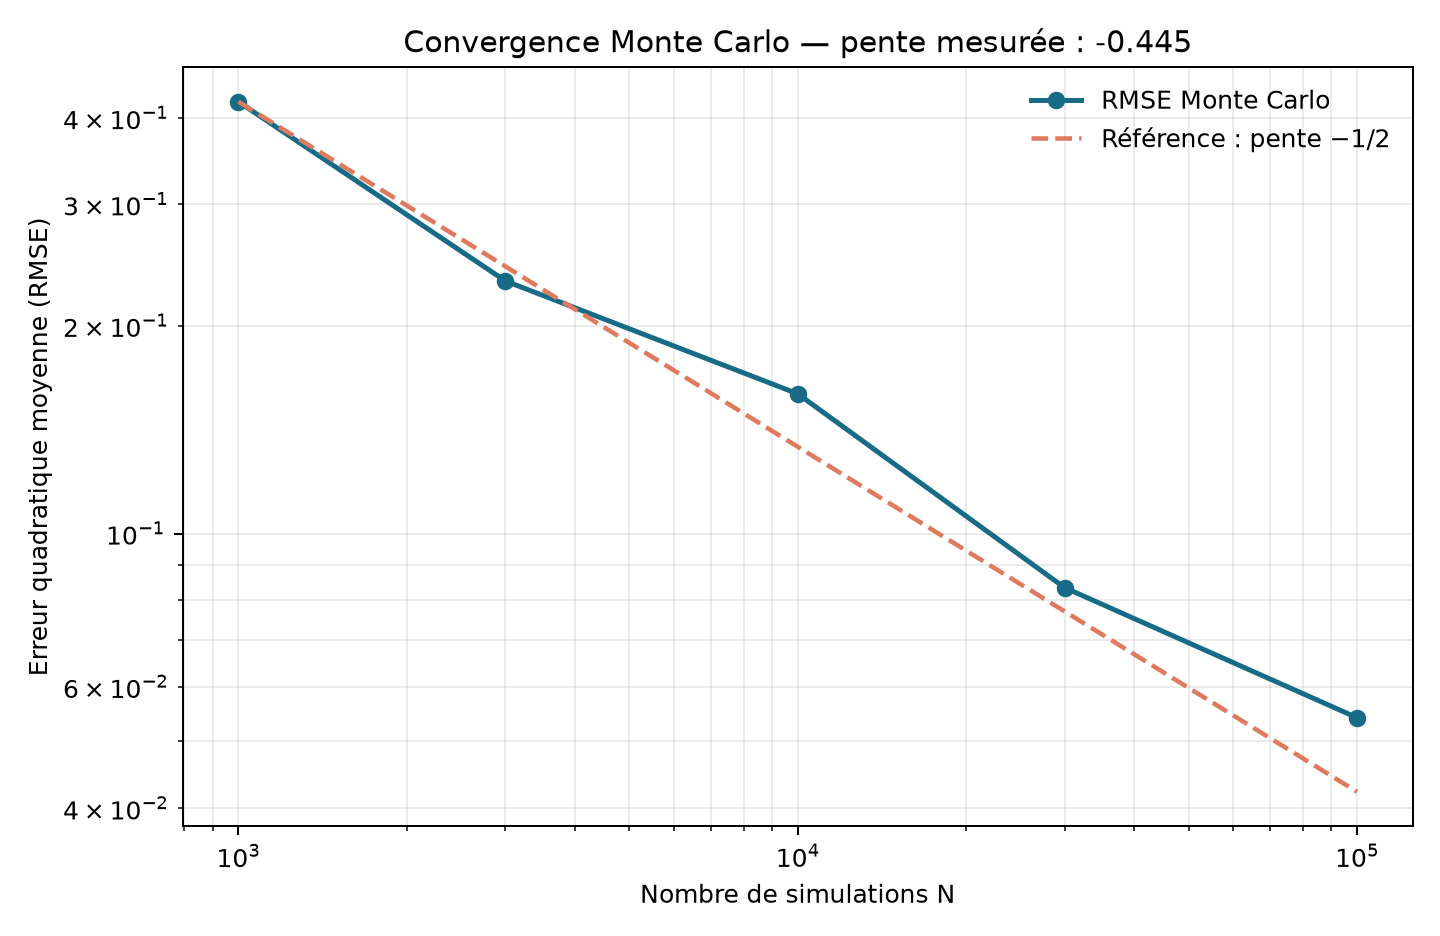
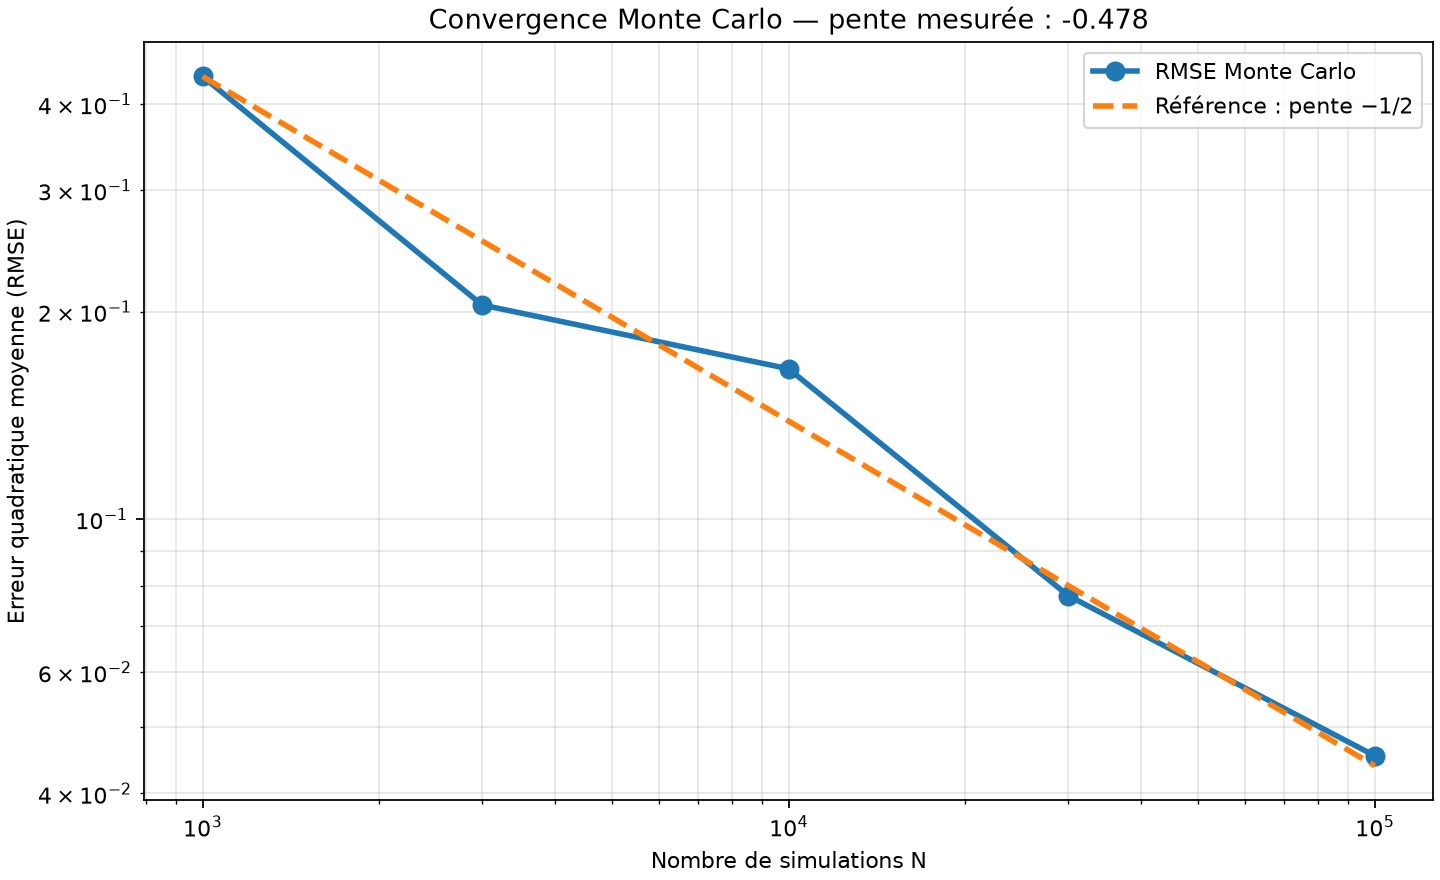
Improve project README and results

diff --git a/README.md b/README.md
@@ -1,40 +1,114 @@
 # Pricing d’options européennes
 
-Projet personnel pour comparer Black–Scholes et Monte Carlo, puis calculer et valider les grecques. Le code et les résultats seront ajoutés progressivement.
+Ce projet compare le prix analytique de Black–Scholes à une estimation par Monte Carlo pour des options européennes sans dividendes. Il calcule aussi delta, gamma et vega, puis vérifie les sensibilités par différences finies. Une interface PyQt5 permet de modifier les paramètres.
 
-## Structure
+## Modèle et formules
 
-```text
-option-pricing/
-├── README.md
-├── requirements.txt
-├── src/
-│   └── option_pricing/
-├── notebooks/
-├── figures/
-└── tests/
+Sous la probabilité risque neutre, le sous-jacent suit un mouvement brownien géométrique :
+
+\[
+ dS_t = r S_t\,dt + \sigma S_t\,dW_t^{\mathbb Q}, \qquad
+ S_T = S_0\exp\left((r-\tfrac12\sigma^2)T + \sigma\sqrt{T}Z\right),
+ \quad Z\sim\mathcal N(0,1).
+\]
+
+Le prix est l’espérance risque neutre du payoff actualisé. Pour un call et un put :
+
+\[
+ C_0=e^{-rT}\mathbb E^{\mathbb Q}[(S_T-K)^+], \qquad
+ P_0=e^{-rT}\mathbb E^{\mathbb Q}[(K-S_T)^+].
+\]
+
+Black–Scholes donne une formule fermée. Avec
+\[
+ d_1=\frac{\ln(S_0/K)+(r+\sigma^2/2)T}{\sigma\sqrt T},
+ \qquad d_2=d_1-\sigma\sqrt T,
+\]
+les prix sont
+\[
+ C_0=S_0N(d_1)-Ke^{-rT}N(d_2), \qquad
+ P_0=Ke^{-rT}N(-d_2)-S_0N(-d_1).
+\]
+La parité call-put vérifiée par les tests est \(C_0-P_0=S_0-Ke^{-rT}\).
+
+## Méthodes
+
+- **Black–Scholes** : prix fermé du call et du put européens.
+- **Monte Carlo** : simulation de \(S_T\), moyenne des payoffs actualisés, erreur standard et intervalle de confiance normal à 95 %.
+- **Grecques** : formules fermées pour delta, gamma et vega, comparées à des différences finies centrées sur le prix.
+- **Convergence** : RMSE mesurée sur des répétitions indépendantes du pricer Monte Carlo ; régression de \(\log(\mathrm{RMSE})\) en fonction de \(\log(N)\). La pente théorique est \(-1/2\).
+
+## Résultats de référence
+
+Paramètres : \(S_0=100\,€\), \(K=100\,€\), \(r=5\%\), \(\sigma=20\%\), \(T=1\) an. Les taux et la volatilité sont annualisés et exprimés en décimaux dans l’API Python.
+
+| Méthode | Résultat du call |
+| --- | ---: |
+| Black–Scholes | 10,450584 € |
+| Monte Carlo, \(N=1\,000\,000\), seed 2026 | 10,447934 € |
+| Erreur standard Monte Carlo | 0,014739 € |
+| Intervalle de confiance Monte Carlo à 95 % | [10,419047 € ; 10,476821 €] |
+| Écart absolu avec Black–Scholes | 0,002650 € (0,18 erreur standard) |
+
+La valeur analytique est dans l’intervalle de confiance. Les nombres Monte Carlo sont reproductibles avec la seed indiquée :
+
+```bash
+PYTHONPATH=src python - <<'PY'
+from option_pricing.monte_carlo import monte_carlo_price
+
+result = monte_carlo_price(
+    100, 100, 1, 0.05, 0.20,
+    option_type="call", n_paths=1_000_000, seed=2026,
+)
+print(result)
+PY
 ```
 
-## Installation
+La convergence utilise les tailles \(N=(1\,000, 3\,000, 10\,000, 30\,000, 100\,000)\), 30 répétitions par taille et la seed 2026. La pente log-log mesurée par le code est **−0,478**, proche de la valeur théorique **−0,5**.
+
+| Grecque du call | Formule fermée | Différences finies | Écart absolu |
+| --- | ---: | ---: | ---: |
+| Delta | 0,636831 | 0,636745 | 8,60 × 10⁻⁵ |
+| Gamma | 0,018762 | 0,018760 | 2,30 × 10⁻⁶ |
+| Vega (par variation de 1,00 de σ) | 37,524035 | 37,524034 | 3,05 × 10⁻⁷ |
+
+### Convergence Monte Carlo
+
+![RMSE Monte Carlo et référence en pente −1/2](figures/convergence.png)
+
+### Étude paramétrique
+
+Le graphique compare le prix avant échéance au payoff du call à l’échéance selon le spot, puis montre l’effet de la volatilité et de la maturité.
+
+![Étude paramétrique du call européen](figures/parametric_study.png)
+
+## Installation et lancement
+
+Avec Python 3.10 ou plus récent, depuis la racine du dépôt :
 
 ```bash
 python -m venv .venv
-source .venv/bin/activate  # Windows : .venv\Scripts\activate
+source .venv/bin/activate          # macOS / Linux
 python -m pip install -r requirements.txt
 PYTHONPATH=src python -m option_pricing.gui
 ```
 
-L’interface PyQt5 permet de saisir les paramètres, de choisir call/put et Black–Scholes/Monte Carlo, puis d’afficher le premium, l’intervalle de confiance Monte Carlo et les grecques Black–Scholes. Sur macOS, double-cliquer sur `run_pricer.command` pour ouvrir l’application.
+Sur Windows PowerShell, active l’environnement avec `.\.venv\Scripts\Activate.ps1`, puis définis `PYTHONPATH` avec `$env:PYTHONPATH="src"` avant de lancer `python -m option_pricing.gui`.
 
-## État du projet
+Pour lancer les tests :
 
-- [x] Black–Scholes : code et tests
-- [x] Monte Carlo : prix et intervalle de confiance
-- [x] Convergence : RMSE, pente log-log et figure
-- [x] Grecques et différences finies
-- [x] Analyse paramétrique : spot, volatilité, maturité et payoff à l’échéance
-- [x] Interface PyQt5
-- [ ] Bonus technique : antithétiques, variable de contrôle, option asiatique
-- [ ] Notebook d’analyse
+```bash
+PYTHONPATH=src python -m pytest
+```
 
-Les figures disponibles sont `figures/convergence.png` et `figures/parametric_study.png`. Le notebook d’analyse, le bonus Monte Carlo et la ligne de CV restent à réaliser. Projet développé avec assistance IA.
+Le lanceur `run_pricer.command` ouvre l’interface par double-clic sur **macOS uniquement**. La commande Python ci-dessus est l’alternative pour les autres systèmes.
+
+## Limites et état du projet
+
+Le modèle suppose une volatilité constante, un taux sans risque constant, l’absence de dividendes et une option européenne exercée uniquement à l’échéance. Les options américaines et les modèles à volatilité locale ou stochastique ne sont pas couverts.
+
+**Déjà implémenté :** Black–Scholes, Monte Carlo avec intervalle de confiance, convergence, grecques, différences finies, étude paramétrique et interface PyQt5. Les tests couvrent notamment les prix de référence, la parité call-put, l’accord Monte Carlo/Black–Scholes et la comparaison des grecques.
+
+**À compléter :** notebook d’analyse, réduction de variance (au moins variables antithétiques), option asiatique et ligne de CV. Aucune licence open source n’a encore été choisie.
+
+Projet développé avec assistance IA.

diff --git a/figures/README.md b/figures/README.md
@@ -1,1 +1,4 @@
-Les figures produites par l’analyse seront enregistrées ici.
+Les figures affichées dans le README sont conservées ici :
+
+- `convergence.png` : RMSE Monte Carlo selon le nombre de simulations, avec la pente mesurée.
+- `parametric_study.png` : effet du spot, de la volatilité et de la maturité sur le call européen.

diff --git a/notebooks/README.md b/notebooks/README.md
@@ -1,1 +1,1 @@
-Le notebook d’analyse sera construit après les premières méthodes de pricing.
+Le notebook `analysis.ipynb` reste à créer. Il présentera le modèle, les résultats Black–Scholes et Monte Carlo, la convergence, les grecques et l’étude paramétrique.
